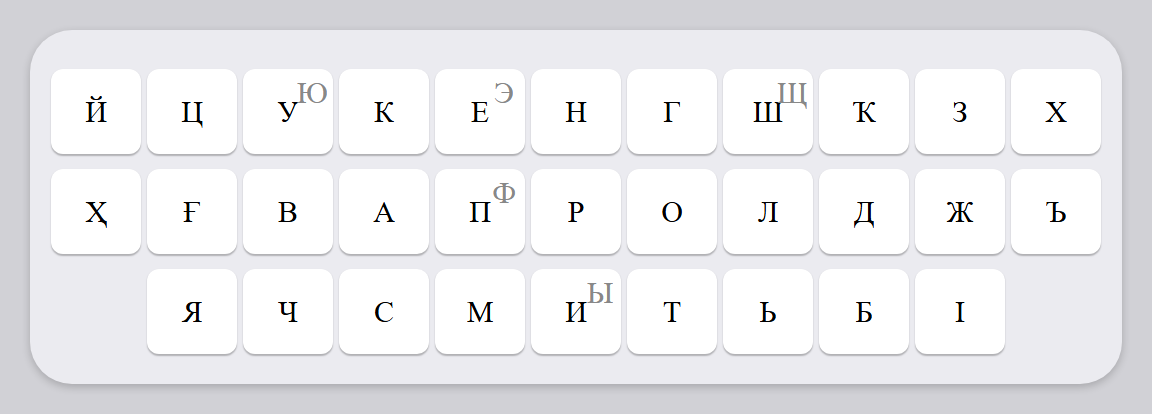
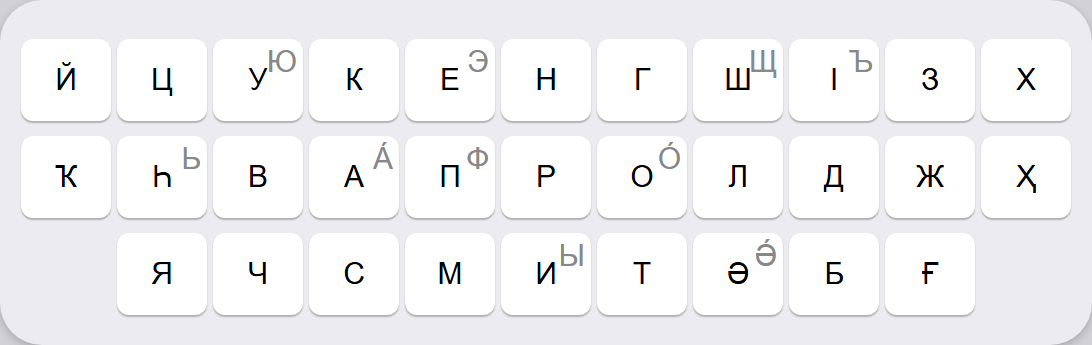
Update Kaitag to v1.2

diff --git a/data/xdq/urssivar/README.md b/data/xdq/urssivar/README.md
@@ -1,9 +1,12 @@
 # Данные для языка `xdq` от вендора Urssivar
 
+**Спецификация:** [urssivar/script](https://github.com/urssivar/script) (v1.2, май 2026)
+
 - `raw/xdq_mono_33k.txt` — Символьный монокорпус (пока слабый, требуется переработка)
-- `frequencies/xdq_monocorpus_freq.csv` — частотности *символов* (30) из монокорпуса; раскладка построена с опорой на них
-- `frequencies/xdq_monocorpus_freq_letters.csv` — дополнительно частотности *букв* (42, в т. ч. диграфы) из монокорпуса
+- `frequencies/xdq_monocorpus_freq.csv` — частотности _символов_ (30) из монокорпуса; раскладка построена с опорой на них
+- `frequencies/xdq_monocorpus_freq_letters.csv` — дополнительно частотности _букв_ (42, в т. ч. диграфы) из монокорпуса
 - `stats/xdq_population.csv` — численность носителей
-- `keyboard/xdq_key_default.json` — описание раскладки
+- `keyboard/xdq_key_default.json` — базовая 3-рядная раскладка
+- `keyboard/xdq_key_4row.json` — 4-рядная раскладка с сохранением ЙЦУКЕН и расширенными буквами в верхнем ряду
 - `mapping/xdq_key_mapping.json` — маппинг расширенных букв на русские клавиши
 - `metadata.json` — дополнительная информация